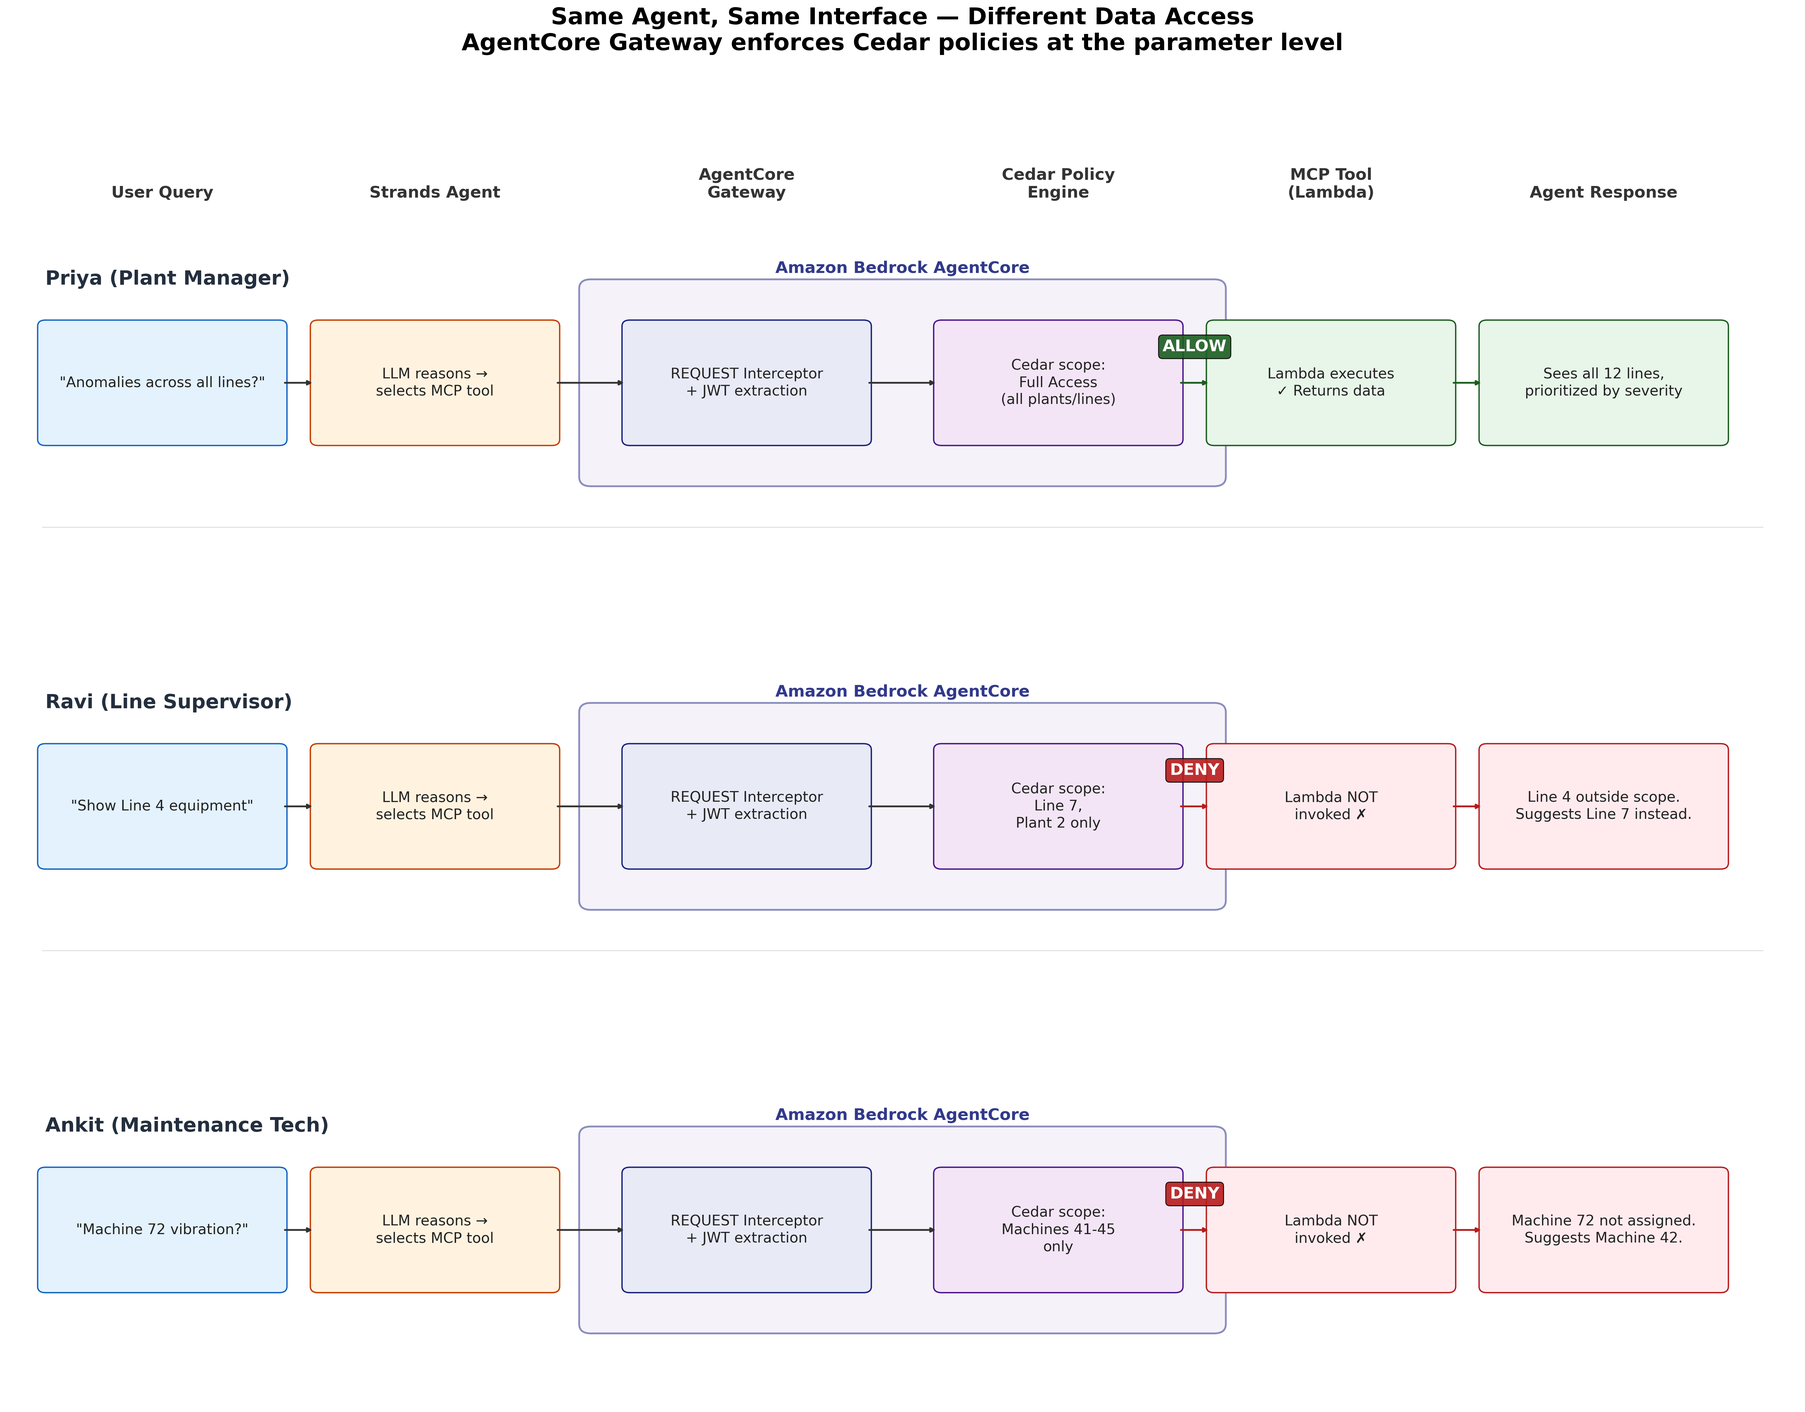
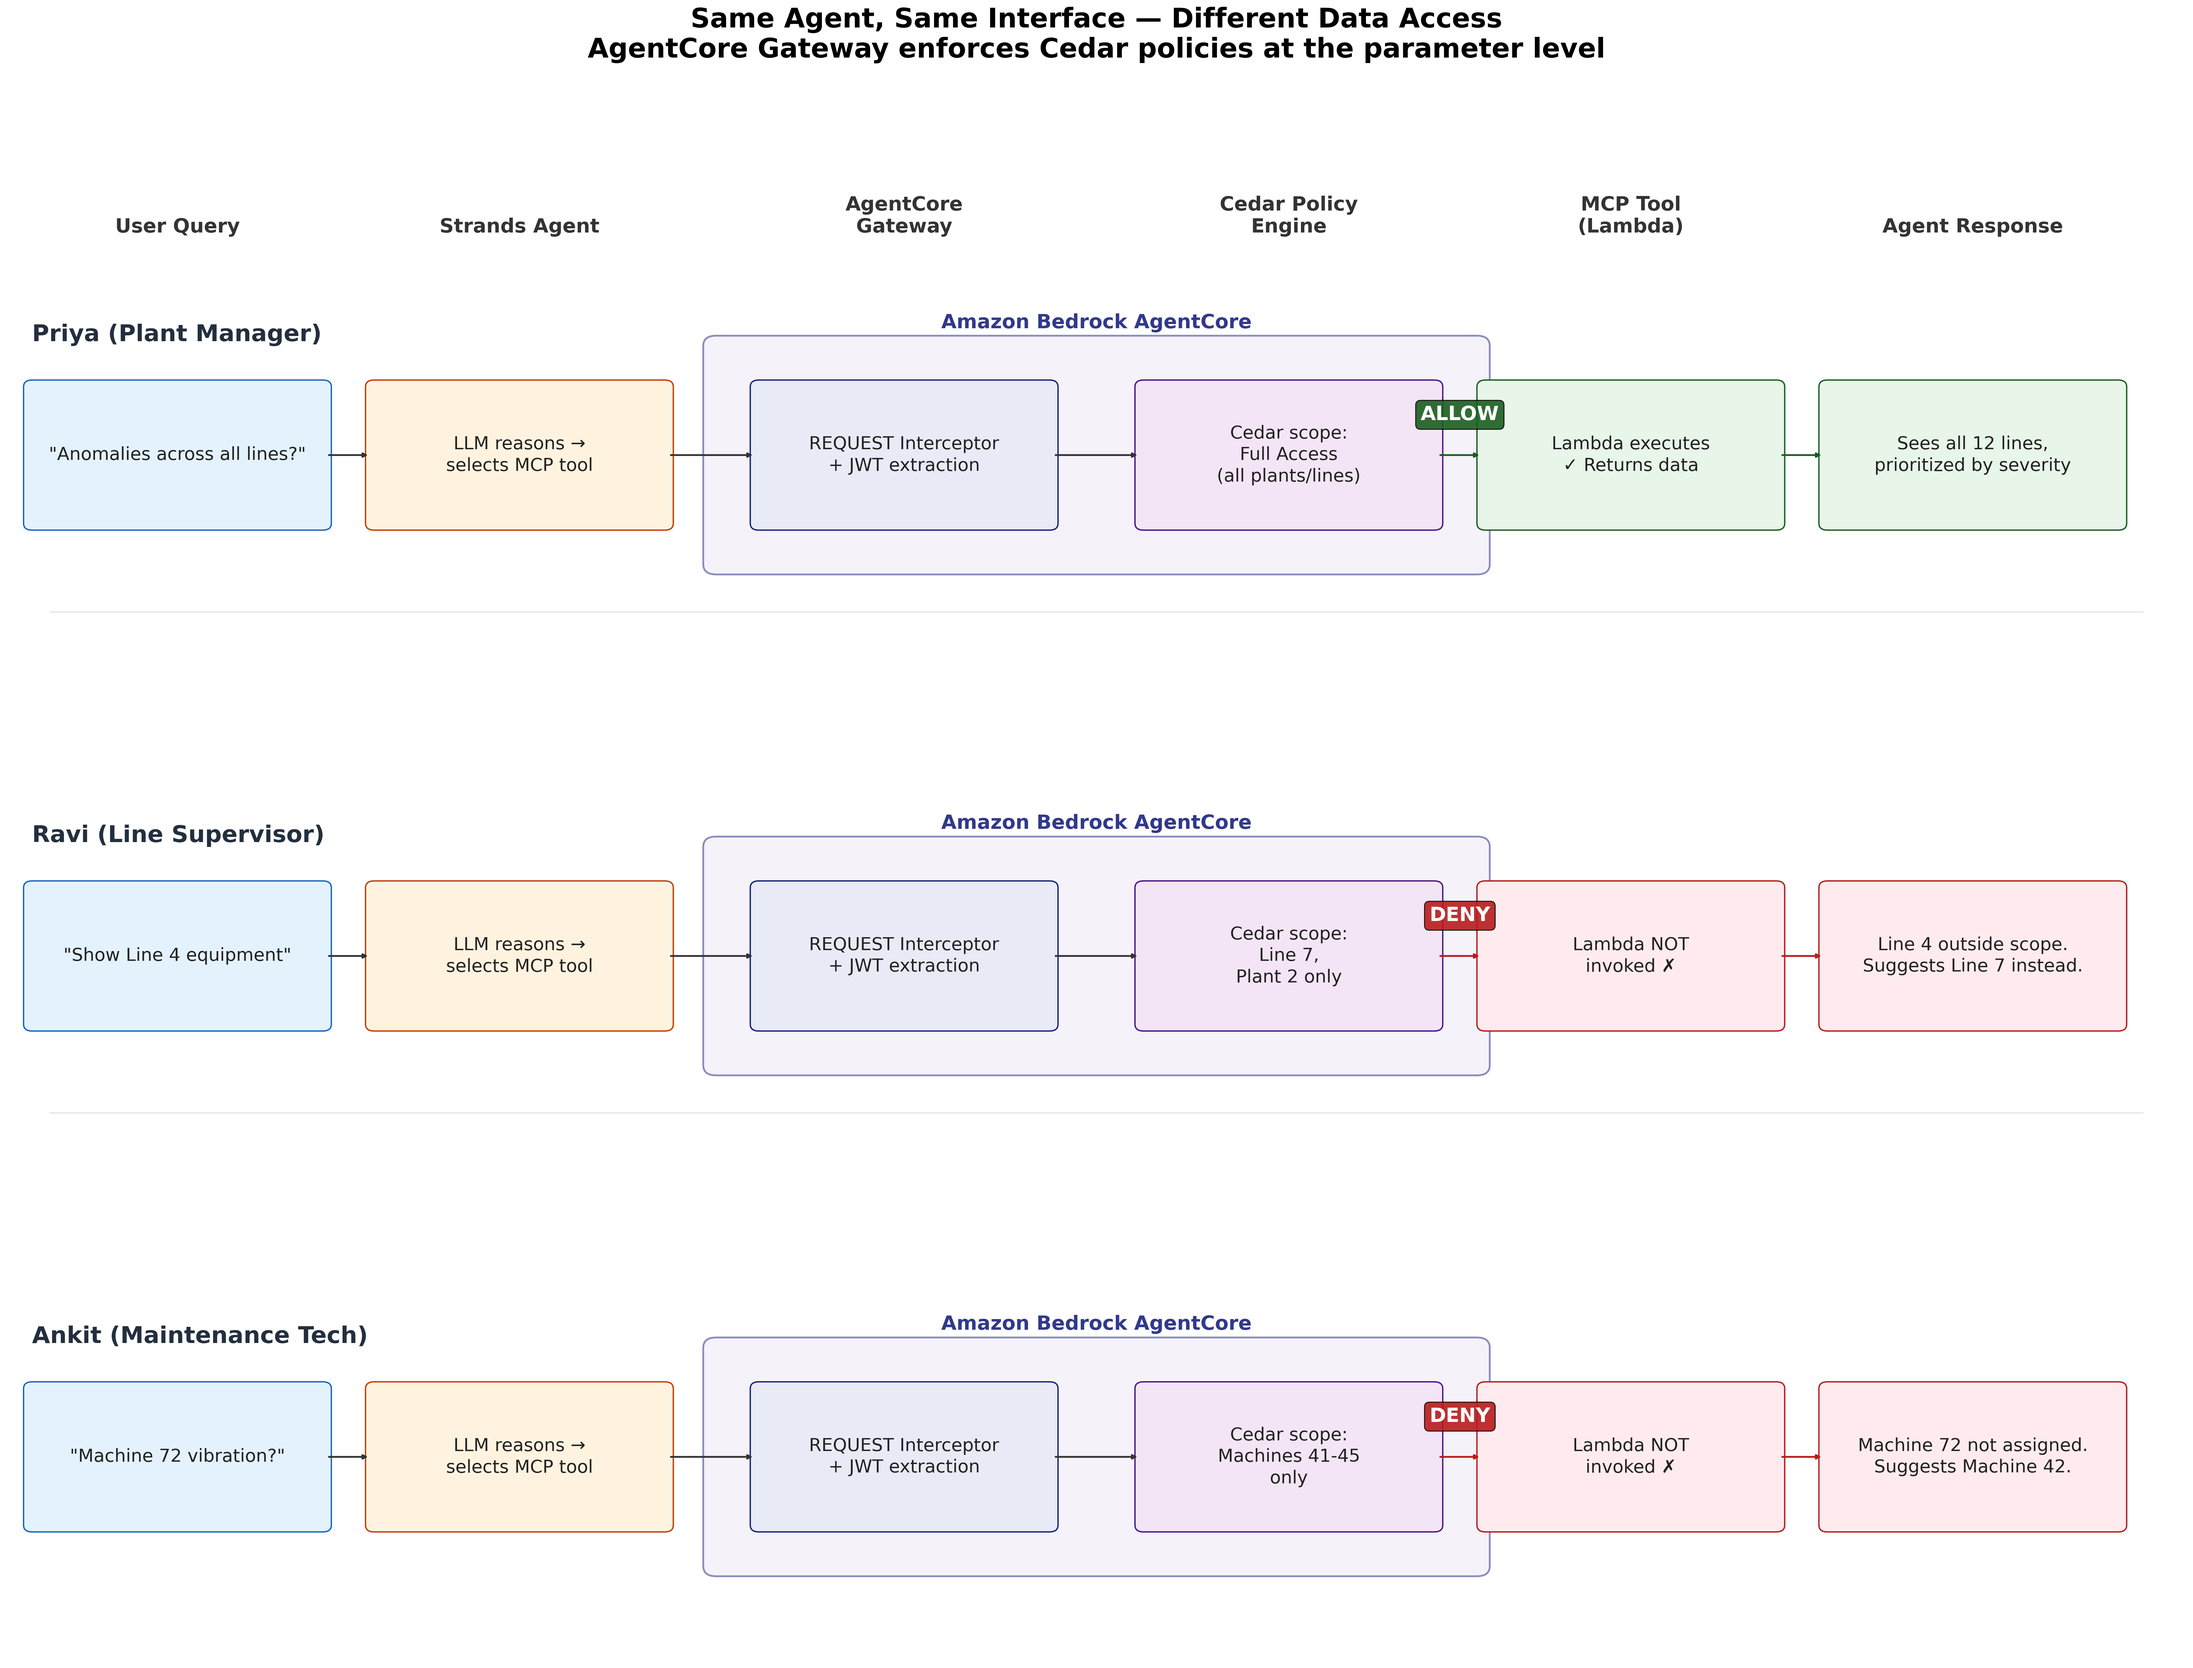
Increase minimum font to 24pt, canvas to 48x46 inches All text now minimum 24pt (was 18pt). Largest canvas yet: - Sequence: 48x46 in @ 200 DPI = 9600x9200 px - Personas: 34x26 in @ 200 DPI = 6800x5200 px - Minimum font: 24pt monospace (Cedar notes, JWT claims) - Messages: 28pt, Phase labels: 30pt, T

diff --git a/docs/create_sequence_diagram_v2.py b/docs/create_sequence_diagram_v2.py
@@ -36,16 +36,16 @@ COLORS = {
 }
 
 # Font sizes — all significantly larger than original
-F_TITLE = 36
-F_SUBTITLE = 24
-F_PARTICIPANT = 24
-F_PARTICIPANT_BOTTOM = 20
-F_MESSAGE = 22
-F_NOTE = 20
-F_MONO = 18
-F_PHASE = 24
-F_LEGEND = 22
-F_ALT_GUARD = 22
+F_TITLE = 42
+F_SUBTITLE = 30
+F_PARTICIPANT = 28
+F_PARTICIPANT_BOTTOM = 24
+F_MESSAGE = 28
+F_NOTE = 26
+F_MONO = 24
+F_PHASE = 30
+F_LEGEND = 26
+F_ALT_GUARD = 26
 
 
 def draw_participant(ax, x, y_top, y_bottom, label, color, width=2.2):
@@ -144,30 +144,30 @@ def draw_alt_frame(ax, x_left, x_right, y_top, y_mid, y_bottom, label_if, label_
 # ===========================================================================
 
 def create_main_sequence_diagram():
-    fig, ax = plt.subplots(1, 1, figsize=(40, 38))
-    ax.set_xlim(-0.5, 22.0)
-    ax.set_ylim(-26.0, 2.5)
+    fig, ax = plt.subplots(1, 1, figsize=(48, 46))
+    ax.set_xlim(-0.5, 24.0)
+    ax.set_ylim(-30.0, 2.5)
     ax.axis("off")
 
     # Title
-    ax.text(11.0, 2.0, "AgentCore Gateway: Fine-Grained Access Control — Sequence Diagram",
+    ax.text(12.0, 2.0, "AgentCore Gateway: Fine-Grained Access Control — Sequence Diagram",
             ha="center", va="center", fontsize=F_TITLE, fontweight="bold", color=COLORS["user"])
-    ax.text(11.0, 1.3, "GW Policy + Custom REQUEST/RESPONSE Interceptors + Cedar Authorization",
+    ax.text(12.0, 1.3, "GW Policy + Custom REQUEST/RESPONSE Interceptors + Cedar Authorization",
             ha="center", va="center", fontsize=F_SUBTITLE, fontweight="bold", color="#333333")
 
     # Participants — wider spacing
     participants = [
         (1.0, "Ravi\n(Line Supervisor)", COLORS["user"]),
-        (4.5, "Amazon\nCognito", COLORS["cognito"]),
-        (8.0, "Agent\n(Strands SDK)", COLORS["agent"]),
-        (11.5, "AgentCore\nGateway", COLORS["gateway"]),
-        (14.8, "REQUEST\nInterceptor", COLORS["interceptor"]),
-        (18.0, "Cedar Policy\nEngine", COLORS["cedar"]),
-        (21.0, "MCP Tool\n(Lambda)", COLORS["tool"]),
+        (5.0, "Amazon\nCognito", COLORS["cognito"]),
+        (9.0, "Agent\n(Strands SDK)", COLORS["agent"]),
+        (13.0, "AgentCore\nGateway", COLORS["gateway"]),
+        (16.5, "REQUEST\nInterceptor", COLORS["interceptor"]),
+        (20.0, "Cedar Policy\nEngine", COLORS["cedar"]),
+        (23.0, "MCP Tool\n(Lambda)", COLORS["tool"]),
     ]
 
     y_top = 0.7
-    y_bottom = -23.5
+    y_bottom = -27.5
 
     for x, label, color in participants:
         draw_participant(ax, x, y_top, y_bottom, label, color)
@@ -177,118 +177,118 @@ def create_main_sequence_diagram():
     ax.text(0.0, y, "Authentication", fontsize=F_PHASE, fontweight="bold", color="#222222", va="center")
     ax.axhline(y=y - 0.2, xmin=0.02, xmax=0.97, color="#EEEEEE", linewidth=0.5)
 
-    y = -1.0
-    draw_message(ax, 1.0, 4.5, y, "1. Login (credentials)", COLORS["user"])
+    y = -1.2
+    draw_message(ax, 1.0, 5.0, y, "1. Login (credentials)", COLORS["user"])
 
-    y = -1.9
-    draw_message(ax, 4.5, 1.0, y, "2. JWT {role, line_scope, plant_scope}", COLORS["cognito"], dashed=True)
-    draw_note(ax, 4.5, y - 0.7,
+    y = -2.3
+    draw_message(ax, 5.0, 1.0, y, "2. JWT {role, line_scope, plant_scope}", COLORS["cognito"], dashed=True)
+    draw_note(ax, 5.0, y - 0.9,
               "JWT Claims:\n  role = line_supervisor\n  line_scope = Line 7\n  plant_scope = Plant 2",
-              width=3.5)
+              width=4.0)
 
     # --- Query Phase ---
-    y = -3.5
+    y = -4.5
     ax.text(0.0, y, "Tool Invocation", fontsize=F_PHASE, fontweight="bold", color="#222222", va="center")
     ax.axhline(y=y - 0.2, xmin=0.02, xmax=0.97, color="#EEEEEE", linewidth=0.5)
 
-    y = -4.2
-    draw_message(ax, 1.0, 8.0, y, '3. "What\'s the OEE for Line 7?"', COLORS["user"])
+    y = -5.3
+    draw_message(ax, 1.0, 9.0, y, '3. "What\'s the OEE for Line 7?"', COLORS["user"])
 
-    y = -5.0
-    draw_self_message(ax, 8.0, y, "4. LLM reasons: need get_oee_trends(line='Line 7')", COLORS["agent"])
+    y = -6.3
+    draw_self_message(ax, 9.0, y, "4. LLM reasons: need get_oee_trends(line='Line 7')", COLORS["agent"])
 
-    y = -6.4
-    draw_message(ax, 8.0, 11.5, y, '5. MCP call: get_oee_trends(line="Line 7") + Bearer <JWT>',
+    y = -7.8
+    draw_message(ax, 9.0, 13.0, y, '5. MCP call: get_oee_trends(line="Line 7") + Bearer <JWT>',
                  COLORS["agent"], fontsize=F_NOTE)
 
     # Activation on gateway
-    draw_activation(ax, 11.5, -6.4, -9.5, COLORS["gateway"])
+    draw_activation(ax, 13.0, -7.8, -11.5, COLORS["gateway"])
 
     # --- Interceptor Phase ---
-    y = -6.9
+    y = -8.5
     ax.text(0.0, y, "Enrichment", fontsize=F_PHASE, fontweight="bold", color="#222222", va="center")
     ax.axhline(y=y - 0.2, xmin=0.02, xmax=0.97, color="#EEEEEE", linewidth=0.5)
 
-    y = -7.6
-    draw_message(ax, 11.5, 14.8, y, "6. Invoke REQUEST Interceptor", COLORS["gateway"])
-    draw_activation(ax, 14.8, -7.6, -8.9, COLORS["interceptor"])
+    y = -9.3
+    draw_message(ax, 13.0, 16.5, y, "6. Invoke REQUEST Interceptor", COLORS["gateway"])
+    draw_activation(ax, 16.5, -9.3, -10.9, COLORS["interceptor"])
 
-    y = -8.3
-    draw_self_message(ax, 14.8, y,
+    y = -10.1
+    draw_self_message(ax, 16.5, y,
                       "7. Decode JWT payload\n     Extract: role, line_scope\n     Inject user_context",
                       COLORS["interceptor"])
 
-    y = -9.2
-    draw_message(ax, 14.8, 11.5, y, '8. Enriched request: user_context = {role, scope}',
+    y = -11.2
+    draw_message(ax, 16.5, 13.0, y, '8. Enriched request: user_context = {role, scope}',
                  COLORS["interceptor"], dashed=True)
 
     # --- Policy Phase ---
-    y = -9.8
+    y = -12.0
     ax.text(0.0, y, "Authorization", fontsize=F_PHASE, fontweight="bold", color="#222222", va="center")
     ax.axhline(y=y - 0.2, xmin=0.02, xmax=0.97, color="#EEEEEE", linewidth=0.5)
 
-    y = -10.5
-    draw_message(ax, 11.5, 18.0, y,
+    y = -12.9
+    draw_message(ax, 13.0, 20.0, y,
                  '9. Evaluate: role=line_supervisor, action=get_oee_trends, line="Line 7"',
                  COLORS["gateway"], fontsize=F_NOTE)
-    draw_activation(ax, 18.0, -10.5, -11.9, COLORS["cedar"])
+    draw_activation(ax, 20.0, -12.9, -14.5, COLORS["cedar"])
 
-    y = -11.3
-    draw_note(ax, 18.0, y,
+    y = -13.8
+    draw_note(ax, 20.0, y,
               "Cedar Evaluation:\n  permit_all → PERMIT\n  forbid_line_scope:\n    'Line 7' in ['Line 7']? YES\n    → No forbid match\n  Result: ALLOW",
-              width=3.8, color="#E8F5E9")
+              width=4.2, color="#E8F5E9")
 
     # --- ALT Frame ---
-    alt_top = -12.3
-    alt_mid = -15.5
-    alt_bottom = -20.0
-    draw_alt_frame(ax, 0.5, 21.5, alt_top, alt_mid, alt_bottom,
+    alt_top = -15.0
+    alt_mid = -18.8
+    alt_bottom = -24.0
+    draw_alt_frame(ax, 0.5, 23.5, alt_top, alt_mid, alt_bottom,
                    "ALLOW — parameter in user scope", "DENY — parameter outside scope")
 
     # ALLOW path
-    y = -12.8
-    draw_message(ax, 18.0, 11.5, y, "10a. Decision: ALLOW", COLORS["allow"], dashed=True)
+    y = -15.7
+    draw_message(ax, 20.0, 13.0, y, "10a. Decision: ALLOW", COLORS["allow"], dashed=True)
 
-    y = -13.5
-    draw_message(ax, 11.5, 21.0, y, "11a. Execute Lambda tool target", COLORS["gateway"])
-    draw_activation(ax, 21.0, -13.5, -14.1, COLORS["tool"])
+    y = -16.6
+    draw_message(ax, 13.0, 23.0, y, "11a. Execute Lambda tool target", COLORS["gateway"])
+    draw_activation(ax, 23.0, -16.6, -17.3, COLORS["tool"])
 
-    y = -14.3
-    draw_message(ax, 21.0, 11.5, y, "12a. OEE data (Line 7, 4 weeks)", COLORS["tool"], dashed=True)
+    y = -17.5
+    draw_message(ax, 23.0, 13.0, y, "12a. OEE data (Line 7, 4 weeks)", COLORS["tool"], dashed=True)
 
-    y = -15.0
-    draw_message(ax, 11.5, 8.0, y, "13a. Tool result → Agent", COLORS["gateway"], dashed=True)
+    y = -18.4
+    draw_message(ax, 13.0, 9.0, y, "13a. Tool result → Agent", COLORS["gateway"], dashed=True)
 
     # DENY path
-    y = -16.2
-    draw_message(ax, 18.0, 11.5, y, '10b. Decision: DENY — "Line 4 not in scope"',
+    y = -19.6
+    draw_message(ax, 20.0, 13.0, y, '10b. Decision: DENY — "Line 4 not in scope"',
                  COLORS["deny"], dashed=True, fontsize=F_NOTE)
 
-    y = -17.2
-    draw_note(ax, 21.0, y, "MCP Server\nNEVER\nINVOKED", width=2.0, color="#FFEBEE")
+    y = -20.8
+    draw_note(ax, 23.0, y, "MCP Server\nNEVER\nINVOKED", width=2.2, color="#FFEBEE")
 
-    y = -18.3
-    draw_message(ax, 11.5, 8.0, y,
+    y = -22.0
+    draw_message(ax, 13.0, 9.0, y,
                  '11b. Error: "[Policy] Access denied. Scope: Line 7 only"',
                  COLORS["deny"], dashed=True, fontsize=F_NOTE)
 
     # --- Response Phase ---
-    y = -20.5
-    draw_self_message(ax, 8.0, y,
+    y = -24.5
+    draw_self_message(ax, 9.0, y,
                       "LLM synthesizes:\n  ALLOW → data summary\n  DENY → explains scope",
                       COLORS["agent"])
 
-    y = -21.6
-    draw_message(ax, 8.0, 1.0, y, "14. Natural language response to user",
+    y = -25.8
+    draw_message(ax, 9.0, 1.0, y, "14. Natural language response to user",
                  COLORS["agent"], dashed=True)
 
     # Legend
-    legend_y = -24.5
+    legend_y = -28.5
     legend_items = [
         (1.0, "Solid arrow = synchronous call", "-"),
-        (6.5, "Dashed arrow = response/return", "--"),
-        (12.0, "Green = ALLOW path", None),
-        (15.5, "Red = DENY path", None),
+        (7.0, "Dashed arrow = response/return", "--"),
+        (13.5, "Green = ALLOW path", None),
+        (17.5, "Red = DENY path", None),
     ]
     for lx, ltxt, ls in legend_items:
         if ls:
@@ -313,7 +313,7 @@ def create_main_sequence_diagram():
 # ===========================================================================
 
 def create_personas_diagram():
-    fig, axes = plt.subplots(3, 1, figsize=(28, 22))
+    fig, axes = plt.subplots(3, 1, figsize=(34, 26))
 
     personas = [
         {
@@ -344,23 +344,23 @@ def create_personas_diagram():
 
     x_positions = {
         "user": 1.5,
-        "agent": 5.0,
-        "gateway": 9.0,
-        "cedar": 13.0,
-        "tool": 16.5,
-        "response": 20.0,
+        "agent": 5.5,
+        "gateway": 10.0,
+        "cedar": 14.5,
+        "tool": 18.5,
+        "response": 22.5,
     }
     captions = ["User Query", "Strands Agent", "AgentCore\nGateway", "Cedar Policy\nEngine", "MCP Tool\n(Lambda)", "Agent Response"]
     caption_xs = [x_positions["user"], x_positions["agent"], x_positions["gateway"],
                   x_positions["cedar"], x_positions["tool"], x_positions["response"]]
 
-    box_w = 3.0
-    box_h = 1.8
+    box_w = 3.4
+    box_h = 2.0
     y_center = 0.0
 
     for idx, (ax, persona) in enumerate(zip(axes, personas)):
-        ax.set_xlim(-0.5, 22.5)
-        ax.set_ylim(-2.8, 3.8)
+        ax.set_xlim(-0.5, 25.0)
+        ax.set_ylim(-3.0, 4.2)
         ax.axis("off")
 
         # AgentCore region
@@ -378,7 +378,7 @@ def create_personas_diagram():
             (x_positions["gateway"] + x_positions["cedar"]) / 2,
             y_center + box_h / 2 + 0.8,
             "Amazon Bedrock AgentCore",
-            ha="center", va="bottom", fontsize=18, fontweight="bold",
+            ha="center", va="bottom", fontsize=22, fontweight="bold",
             color=COLORS["gateway"], alpha=0.9,
         )
 
@@ -386,13 +386,13 @@ def create_personas_diagram():
         ax.text(x_positions["user"] - box_w / 2, y_center + box_h / 2 + 0.6,
                 persona["name"].replace("\n", "  "),
                 ha="left", va="bottom",
-                fontsize=22, fontweight="bold", color=COLORS["user"])
+                fontsize=26, fontweight="bold", color=COLORS["user"])
 
         # Column captions (first row only)
         if idx == 0:
             for cap, cx in zip(captions, caption_xs):
-                ax.text(cx, y_center + box_h / 2 + 2.0, cap, ha="center", va="bottom",
-                        fontsize=18, fontweight="bold", color="#333333")
+                ax.text(cx, y_center + box_h / 2 + 2.2, cap, ha="center", va="bottom",
+                        fontsize=22, fontweight="bold", color="#333333")
 
         # Step boxes
         box_data = [
@@ -418,7 +418,7 @@ def create_personas_diagram():
             )
             ax.add_patch(box)
             ax.text(cx, y_center, text, ha="center", va="center",
-                    fontsize=16, color="#222222", linespacing=1.3)
+                    fontsize=20, color="#222222", linespacing=1.3)
 
         # Arrows
         keys = ["user", "agent", "gateway", "cedar", "tool", "response"]
@@ -439,7 +439,7 @@ def create_personas_diagram():
         badge_x = (x_positions["cedar"] + x_positions["tool"]) / 2
         badge_color = COLORS["allow"] if persona["result"] == "ALLOW" else COLORS["deny"]
         ax.text(badge_x, y_center + 0.45, persona["result"], ha="center", va="bottom",
-                fontsize=18, fontweight="bold", color="white",
+                fontsize=22, fontweight="bold", color="white",
                 bbox=dict(boxstyle="round,pad=0.25", facecolor=badge_color, alpha=0.9))
 
         # Separator
@@ -449,7 +449,7 @@ def create_personas_diagram():
     fig.suptitle(
         "Same Agent, Same Interface — Different Data Access\n"
         "AgentCore Gateway enforces Cedar policies at the parameter level",
-        fontsize=26, fontweight="bold", y=0.99,
+        fontsize=30, fontweight="bold", y=0.99,
     )
     plt.tight_layout(rect=[0, 0, 1, 0.94])
     return fig
@@ -474,5 +474,5 @@ if __name__ == "__main__":
     print(f"Saved: {path2}")
     plt.close(fig2)
 
-    print(f"\nFont sizes: Title={F_TITLE}pt, Messages={F_MESSAGE}pt, Notes={F_NOTE}pt, Participants={F_PARTICIPANT}pt")
-    print("Canvas: 40x38 in (sequence), 28x22 in (personas) @ 200 DPI")
+    print(f"\nFont sizes: Title={F_TITLE}pt, Messages={F_MESSAGE}pt, Notes={F_NOTE}pt, Mono={F_MONO}pt (MINIMUM)")
+    print("Canvas: 48x46 in (sequence), 34x26 in (personas) @ 200 DPI")
